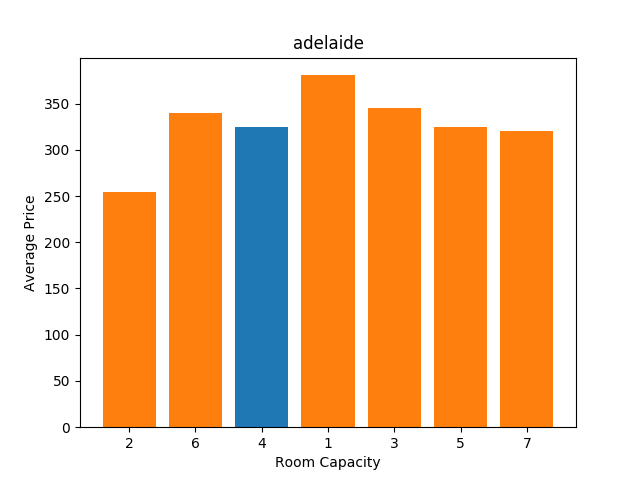
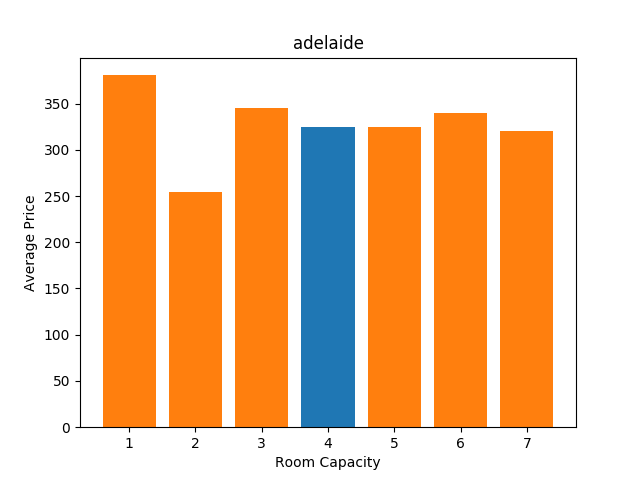
Graphs updated

diff --git a/calculate_statistics.py b/calculate_statistics.py
@@ -17,12 +17,12 @@ with open(data_folder / APPARTMENTS_OUTPUT_FILE, newline='') as csvfile:
         appartment[row['city']][row['capacity']]['price'] += int(row['price'])
         appartment[row['city']][row['capacity']]['count'] += 1
 
-
 #Print stats for rooms
 for city_name, room in appartment.items():
     avg = []
     room_size = []
-    for capacity, v in room.items():
+    sorted(room.keys())
+    for capacity, v in sorted(room.items()):
         avg_price = v['price']/v['count']
         avg.append(avg_price)
         room_size.append(capacity)
